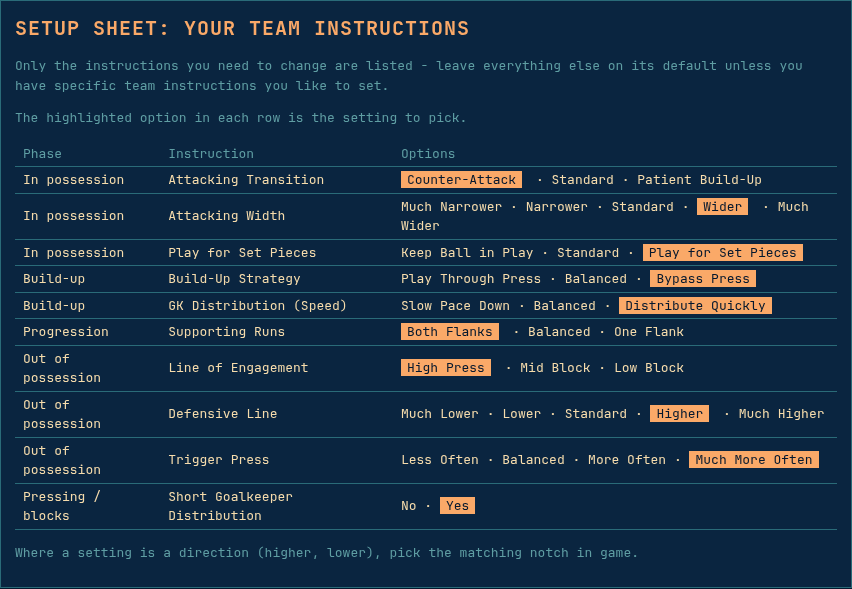
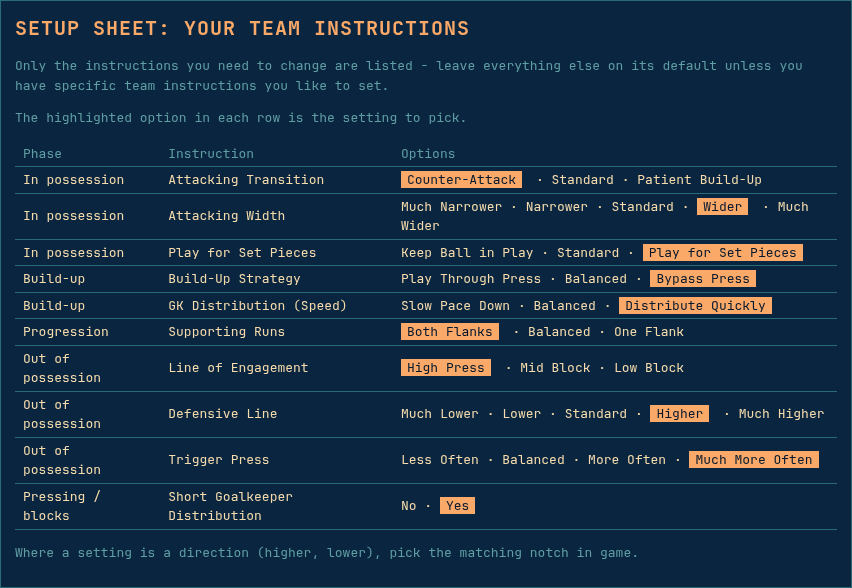
Results as tabs, one tile each; Plan A / B as a toggle in the first tile

diff --git a/index.html b/index.html
@@ -33,6 +33,10 @@ th,td{text-align:left;padding:3px 8px;border-bottom:1px solid var(--line)}th{col
 .tab{flex:0 0 auto;border:1px solid var(--line);border-bottom:0;border-radius:8px 8px 0 0;background:var(--bg);color:var(--soft);padding:6px 8px;margin-bottom:-1px;white-space:nowrap;font-size:12px}
 .tab:hover{color:var(--ink)}
 .planab{margin:0 0 2px;font-size:18px;font-weight:700;letter-spacing:.05em;color:var(--ink)}
+.abpick{display:flex;gap:6px;flex-wrap:wrap;margin:6px 0 10px}
+.pill{border:1px solid var(--line);border-radius:6px;background:var(--bg);color:var(--soft);padding:5px 8px;font-size:12px}
+.pill:hover{color:var(--ink)}
+.pill.on{background:var(--ink);border-color:var(--ink);color:var(--bg);font-weight:700}
 .tab.on{background:var(--ink);border-color:var(--ink);color:var(--bg);font-weight:700}
 .tab.label{background:var(--accent);border-color:var(--accent);color:var(--bg);font-weight:700;letter-spacing:.05em}
 .box.tabbed{border-top-left-radius:0}
@@ -424,7 +428,7 @@ function recommend(o,force){
 </script>
 <script id="ui">
 const form=document.getElementById('form'),out=document.getElementById('out');
-const KEY='fm27counter.inputs';let force=null; // a clicked Control Possession plan tab (A/B); any input change resets it
+const KEY='fm27counter.inputs';let tile='weak',force=null; // tile = open tab; force = a clicked Plan A/B (reset by any input change)
 form.formation.innerHTML=Object.entries(SHAPES).map(([f,x])=>`<option value="${f}">${x.label||f}</option>`).join('');
 // Scout-report questions come from TWEAKS: shared key + value -> dropdown, otherwise a tick box.
 const asks={};for(const t of TWEAKS)if(t.ask)(asks[t.key]??=[]).push(t);
@@ -451,14 +455,13 @@ function render(){
   const o=read();try{localStorage.setItem(KEY,JSON.stringify(o));}catch{}
   // Plan B (high press) only appears when the squad has the pressing legs (Aggression, Work Rate + Stamina 14+).
   const r=recommend(o,force),P=PLANS[r.plan],fam=family(r.plan),pair=o.canPress?AB[fam]:null;
-  // One orange tab naming the playstyle being countered (theirs, or the best guess when 'Not sure');
-  // Playstyles with a Plan A and B (AB) show both as tabs; the one shown is inverted.
   const ab=k=>k===pair[1]?'PLAN B: HIGH PRESS':fam==='possession'?'PLAN A: BLOCK + COUNTER':'PLAN A: MID BLOCK';
-  out.innerHTML=`<div><div class="tabs"><span class="tab label">${esc(STYLE_NAME[fam].toUpperCase())}</span>${pair?pair.map(k=>
-    `<button type="button" class="tab${k===r.plan?' on':''}" data-plan="${k}" aria-pressed="${k===r.plan}">${ab(k)}</button>`).join(''):''}</div>
-  <div class="box tabbed">
-    <h2 class="oppo">ASSESSING THE OPPOSITION&#39;S WEAKNESS</h2>
-    ${pair?`<p class="planab">${r.plan===pair[0]?'PLAN A':'PLAN B'}</p>`:''}
+  const big=t=>`<h3 class="big" style="font-size:20px">${t}</h3>`;
+  // Each tile is a tab; the orange label names the playstyle being countered (theirs, or the best guess when 'Not sure').
+  const tiles=[
+    ['weak',"Opposition's weakness",`<h2 class="oppo">ASSESSING THE OPPOSITION&#39;S WEAKNESS</h2>
+    ${pair?`<div class="abpick">${pair.map(k=>`<button type="button" class="pill${k===r.plan?' on':''}" data-plan="${k}" aria-pressed="${k===r.plan}">${ab(k)}</button>`).join('')}</div>
+    <p class="planab">${r.plan===pair[0]?'PLAN A':'PLAN B'}</p>`:''}
     <h2>${pair?P.name:P.name.replace(' - A: ',' - ')}</h2>
     <p>${esc(pair?P.blurb:P.blurb.replace('Plan A: ',''))}</p>
     <p class="why">Why: ${r.reasons.length?esc(r.reasons.join(' · ')):'picked manually'}</p>
@@ -466,38 +469,36 @@ function render(){
     <ul>${li('Weak spot: '+r.shape.weak)}${li(`Shape counter: IP ${r.shape.ip} / OOP ${r.shape.oop} - ${r.shape.why}`)}${r.warns.map(w=>li(w,'warn')).join('')}</ul>
     ${r.oopC?`<h3>Their ${esc(o.oopShape)} out of possession</h3>
     <ul>${li('Weak spot: '+r.oopC.weak)}${li('Attack it with: '+r.oopC.ip)}${r.oopC.tips.map(t=>li(t)).join('')}
-      ${li('Settings added to the setup sheet: '+Object.entries(r.oopC.set).map(([k,v])=>k+' '+v).join(', '),'why')}</ul>`:''}
-  </div></div>
-  ${r.tweaks.length||r.clashes.length?`<div class="box">
-    ${r.tweaks.length?`<h3 class="big" style="font-size:20px">Tweaks for this opponent</h3><ul>${r.tweaks.map(t=>`<li>${esc(t.text)} <span class="why">- ${esc(t.why)}</span></li>`).join('')}</ul>`:''}
-    ${r.clashes.length?`<h3>Overrides on the setup sheet</h3>${ul(r.clashes,'warn')}`:''}
-  </div>`:''}
-  <div class="box">
-    <h3 class="big" style="font-size:20px">YOUR MENTALITY AND SHAPE</h3>
-        <div class="shape"><span>Team mentality</span><b>${esc(r.mine.mood)}</b><small>${ul(r.mine.moodWhy)}</small></div>
-        <div class="shape"><span>In possession shape</span><b>${esc(r.mine.ip)}</b><small>${ul(r.mine.ipWhy)}</small></div>
-        <div class="shape"><span>Out of possession shape</span><b>${esc(r.mine.oop)}</b><small>${ul(r.mine.oopWhy)}</small></div>
-  </div>
-  <div class="box">
-    <h3 class="big" style="font-size:20px">IN POSSESSION AND OUT OF POSSESSION TIPS</h3>
+      ${li('Settings added to the setup sheet: '+Object.entries(r.oopC.set).map(([k,v])=>k+' '+v).join(', '),'why')}</ul>`:''}`],
+    ['tweaks','Tweaks',`${big('TWEAKS FOR THIS OPPONENT')}
+    ${r.tweaks.length?`<ul>${r.tweaks.map(t=>`<li>${esc(t.text)} <span class="why">- ${esc(t.why)}</span></li>`).join('')}</ul>`:'<p class="why">No tweaks - the opposition setup and scout report don\'t call for any.</p>'}
+    ${r.clashes.length?`<h3>Overrides on the setup sheet</h3>${ul(r.clashes,'warn')}`:''}`],
+    ['shape','Mentality and shape',`${big('YOUR MENTALITY AND SHAPE')}
+    <div class="shape"><span>Team mentality</span><b>${esc(r.mine.mood)}</b><small>${ul(r.mine.moodWhy)}</small></div>
+    <div class="shape"><span>In possession shape</span><b>${esc(r.mine.ip)}</b><small>${ul(r.mine.ipWhy)}</small></div>
+    <div class="shape"><span>Out of possession shape</span><b>${esc(r.mine.oop)}</b><small>${ul(r.mine.oopWhy)}</small></div>`],
+    ['tips','IP / OOP tips',`${big('IN POSSESSION AND OUT OF POSSESSION TIPS')}
     <div class="cols two">
       <div><h3>In possession</h3>${ul(P.ip)}</div>
       <div><h3>Out of possession</h3>${ul(P.oopI)}</div>
     </div>
-    <h3>In-game adjustments</h3>${ul(P.adjust)}
-  </div>
-  <div class="box">
-    <h3 class="big" style="font-size:20px">SETUP SHEET: YOUR TEAM INSTRUCTIONS</h3>
+    <h3>In-game adjustments</h3>${ul(P.adjust)}`],
+    ['setup','Setup sheet',`${big('SETUP SHEET: YOUR TEAM INSTRUCTIONS')}
     <p class="why">Only the instructions you need to change are listed - leave everything else on its default unless you have specific team instructions you like to set.</p>
     <p class="why">The highlighted option in each row is the setting to pick.</p>
     <table><tr><th>Phase</th><th>Instruction</th><th>Options</th></tr>
       ${TI.filter(t=>r.set[t.name]).map(t=>{const s=r.set[t.name];return `<tr><td>${t.phase}</td><td>${t.name}</td>
         <td>${t.opts.map(x=>x===s?`<span class="tag">${x}</span>`:x).join(' · ')}</td></tr>`;}).join('')}</table>
-    <p class="why">Where a setting is a direction (higher, lower), pick the matching notch in game.</p>
-  </div>`;
+    <p class="why">Where a setting is a direction (higher, lower), pick the matching notch in game.</p>`],
+  ];
+  const cur=tiles.find(t=>t[0]===tile)||tiles[0];
+  out.innerHTML=`<div><div class="tabs" role="tablist"><span class="tab label">${esc(STYLE_NAME[fam].toUpperCase())}</span>${tiles.map(([id,name])=>
+    `<button type="button" role="tab" class="tab${id===cur[0]?' on':''}" data-tile="${id}" aria-selected="${id===cur[0]}">${name}</button>`).join('')}</div>
+  <div class="box tabbed" role="tabpanel">${cur[2]}</div></div>`;
 }
 form.addEventListener('change',()=>{force=null;render();});
-out.addEventListener('click',e=>{const b=e.target.closest('[data-plan]');if(b){force=b.dataset.plan;render();}});
+out.addEventListener('click',e=>{const p=e.target.closest('[data-plan]'),t=e.target.closest('[data-tile]');
+  if(p){force=p.dataset.plan;render();}else if(t){tile=t.dataset.tile;render();}});
 render();
 </script>
 <script>

diff --git a/README.md b/README.md
@@ -14,7 +14,7 @@ A counter-tactic helper for Football Manager 27. Describe the opponent (their in
 
 ## Screenshots
 
-Against a Control Possession side in a 4-3-3 that presses often: the counter plan, your mentality and shapes, and the tweaks from the scout report.
+Against a Control Possession side in a 4-3-3 that presses often: the opposition's weakness tile, with Plan A / Plan B. Tweaks, mentality and shape, tips and the setup sheet are the other tabs.
 
 ![Overview: opponent inputs, scout report and the recommended plan](screenshots/overview.png)
 
